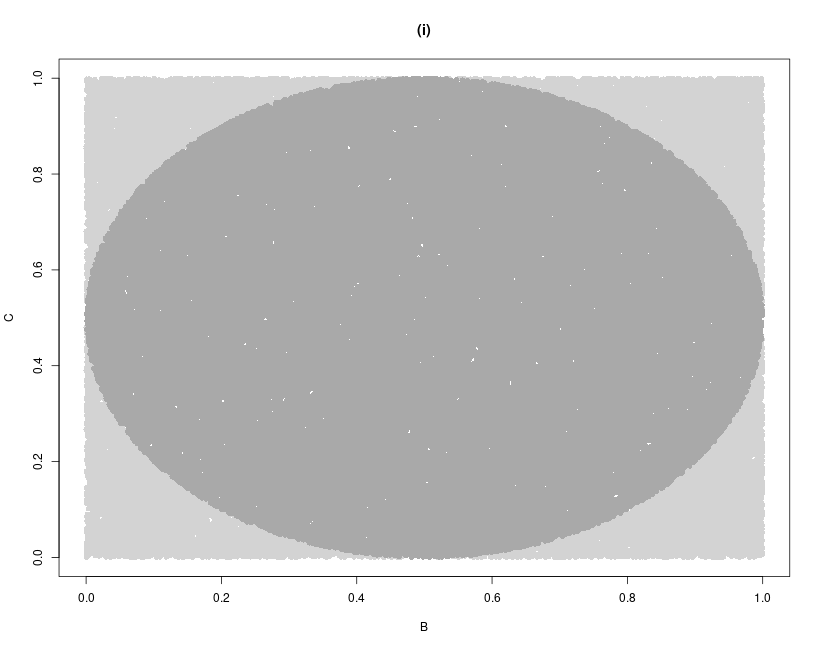
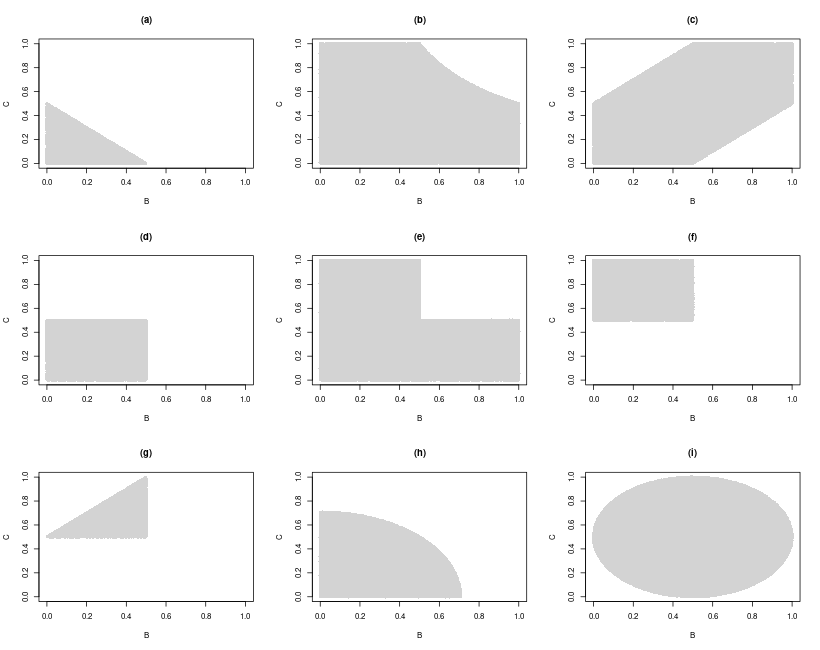
INPROB: Fixed coloring of plots

diff --git a/IntroProb/ch02_02.02_ContProbDens.html b/IntroProb/ch02_02.02_ContProbDens.html
@@ -620,7 +620,7 @@ Asd
 Simulation results that give an independent verification that the results above are correct.
 Code can be found under the plot.
 <br /><br />
-<img src="img/02.02_Ex8ALL.png" />
+<img src="img/02.02_Ex8_COMP.png" />
 <br /><br />
 <b>Code</b><br />
 <div class="rcode">
